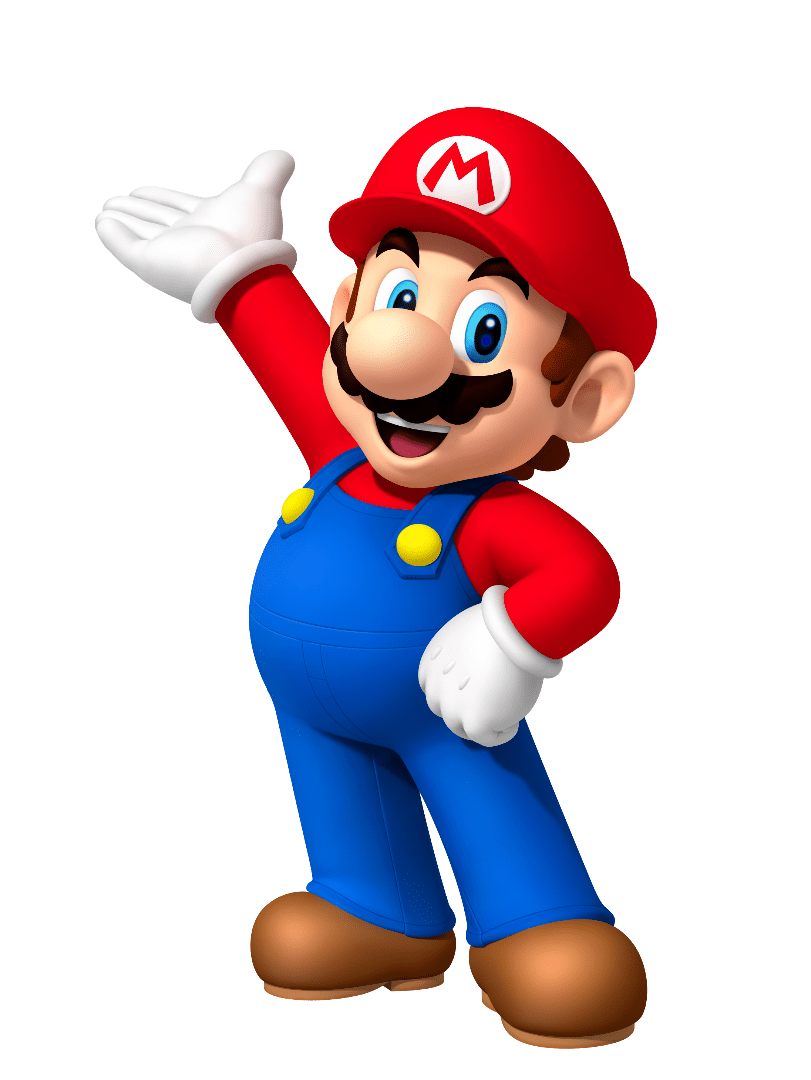
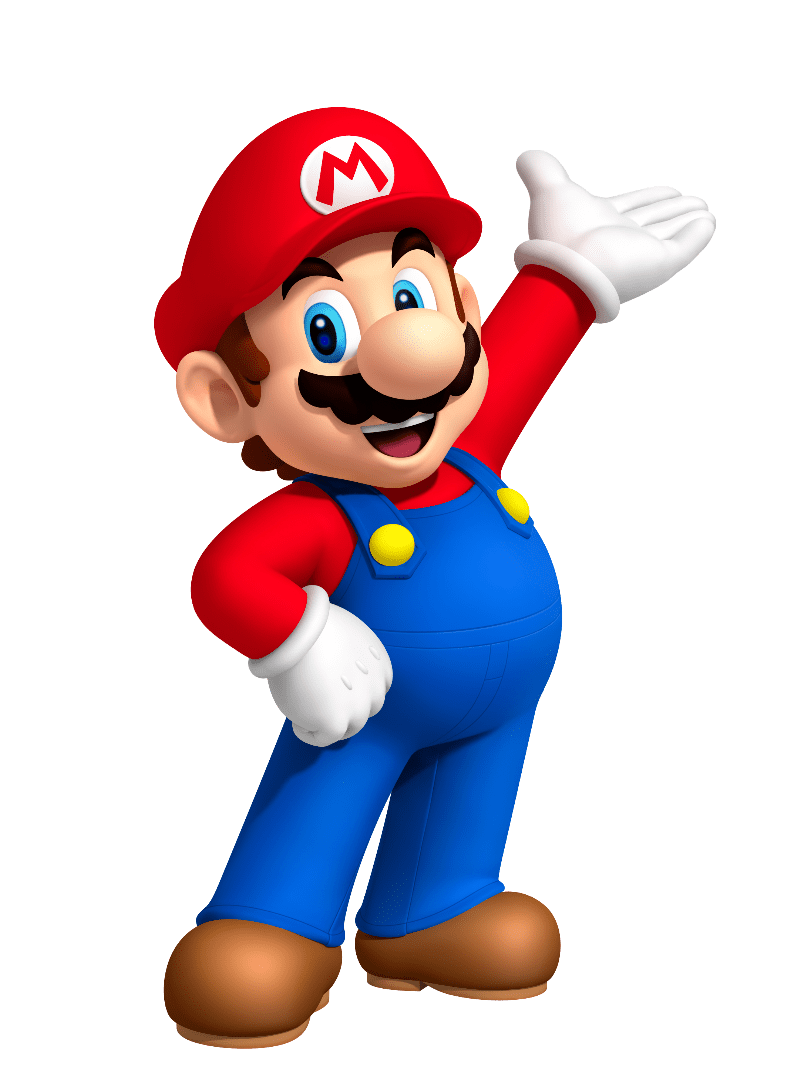
Header style done
- Still have to do responsive
- Mario flipped !!

diff --git a/styles/style.css b/styles/style.css
@@ -1,6 +1,30 @@
+html {
+  scroll-behavior: smooth;
+}
+
+::-webkit-scrollbar {
+  width: 1vw;
+}
+
+::-webkit-scrollbar-thumb {
+  background-color: crimson;
+}
+
+::-webkit-scrollbar-thumb:active {
+  background-color: rgb(139, 13, 38);
+}
+
 body {
   margin: 0;
   font-family: "Roboto", sans-serif;
+}
+
+.preload * {
+  transition: none !important;
+  -o-transition: none !important;
+  -ms-transition: none !important;
+  -moz-transition: none !important;
+  -webkit-transition: none !important;
 }
 
 a {
@@ -26,6 +50,15 @@ a {
   display: flex;
   align-items: center;
   gap: 1vw;
+  padding: 0vh 1vw;
+  border-radius: 25px;
+  transition-property: background-color, color;
+  transition: 0.75s ease;
+}
+
+.trademark:hover {
+  background-color: white;
+  color: crimson;
 }
 
 .trademark h1 {
@@ -46,8 +79,42 @@ a {
   font-weight: 500;
 }
 
+.page {
+  padding: 0.5vh 1vw;
+  border-radius: 25px;
+  transition-property: background-color, color;
+  transition: 0.75s ease;
+}
+
+.page:hover {
+  background: white;
+  color: crimson;
+}
+
 .buying {
   display: flex;
   align-items: center;
   gap: 2vw;
+}
+
+.buy,
+.cart {
+  transition: background-color 0.75s ease;
+  padding: 2vh 1vw;
+  border-radius: 25px;
+}
+
+.buy:hover,
+.cart:hover {
+  background-color: white;
+}
+
+.buy:hover .buySvg {
+  filter: brightness(0) saturate(100%) invert(14%) sepia(94%) saturate(7475%)
+    hue-rotate(357deg) brightness(110%) contrast(111%);
+}
+
+.cart:hover .cartSvg {
+  filter: brightness(0) saturate(100%) invert(14%) sepia(94%) saturate(7475%)
+    hue-rotate(357deg) brightness(110%) contrast(111%);
 }

diff --git a/index.html b/index.html
@@ -18,7 +18,7 @@
     <link rel="stylesheet" href="styles/style.css" />
     <link rel="shortcut icon" href="img/mario-min.png" type="image/x-icon" />
   </head>
-  <body>
+  <body class="preload" onload="load()">
     <div class="main">
       <!-- ------ -->
       <!-- Header -->
@@ -42,6 +42,7 @@
         <div class="buying">
           <a href="#" class="cart">
             <svg
+              class="cartSvg"
               xmlns="http://www.w3.org/2000/svg"
               width="41"
               height="41"
@@ -61,6 +62,7 @@
           </a>
           <a href="#" class="buy"
             ><svg
+              class="buySvg"
               xmlns="http://www.w3.org/2000/svg"
               width="41"
               height="41"
@@ -85,6 +87,10 @@
       <!-- Footer -->
       <!-- ------ -->
       <div class="footer"></div>
+      <!-- -- -->
+      <!-- JS -->
+      <!-- -- -->
+      <script src="js/script.js"></script>
     </div>
   </body>
 </html>

diff --git a/js/script.js b/js/script.js
@@ -1,0 +1,3 @@
+function load() {
+  document.querySelector("body").classList.remove("preload");
+}
